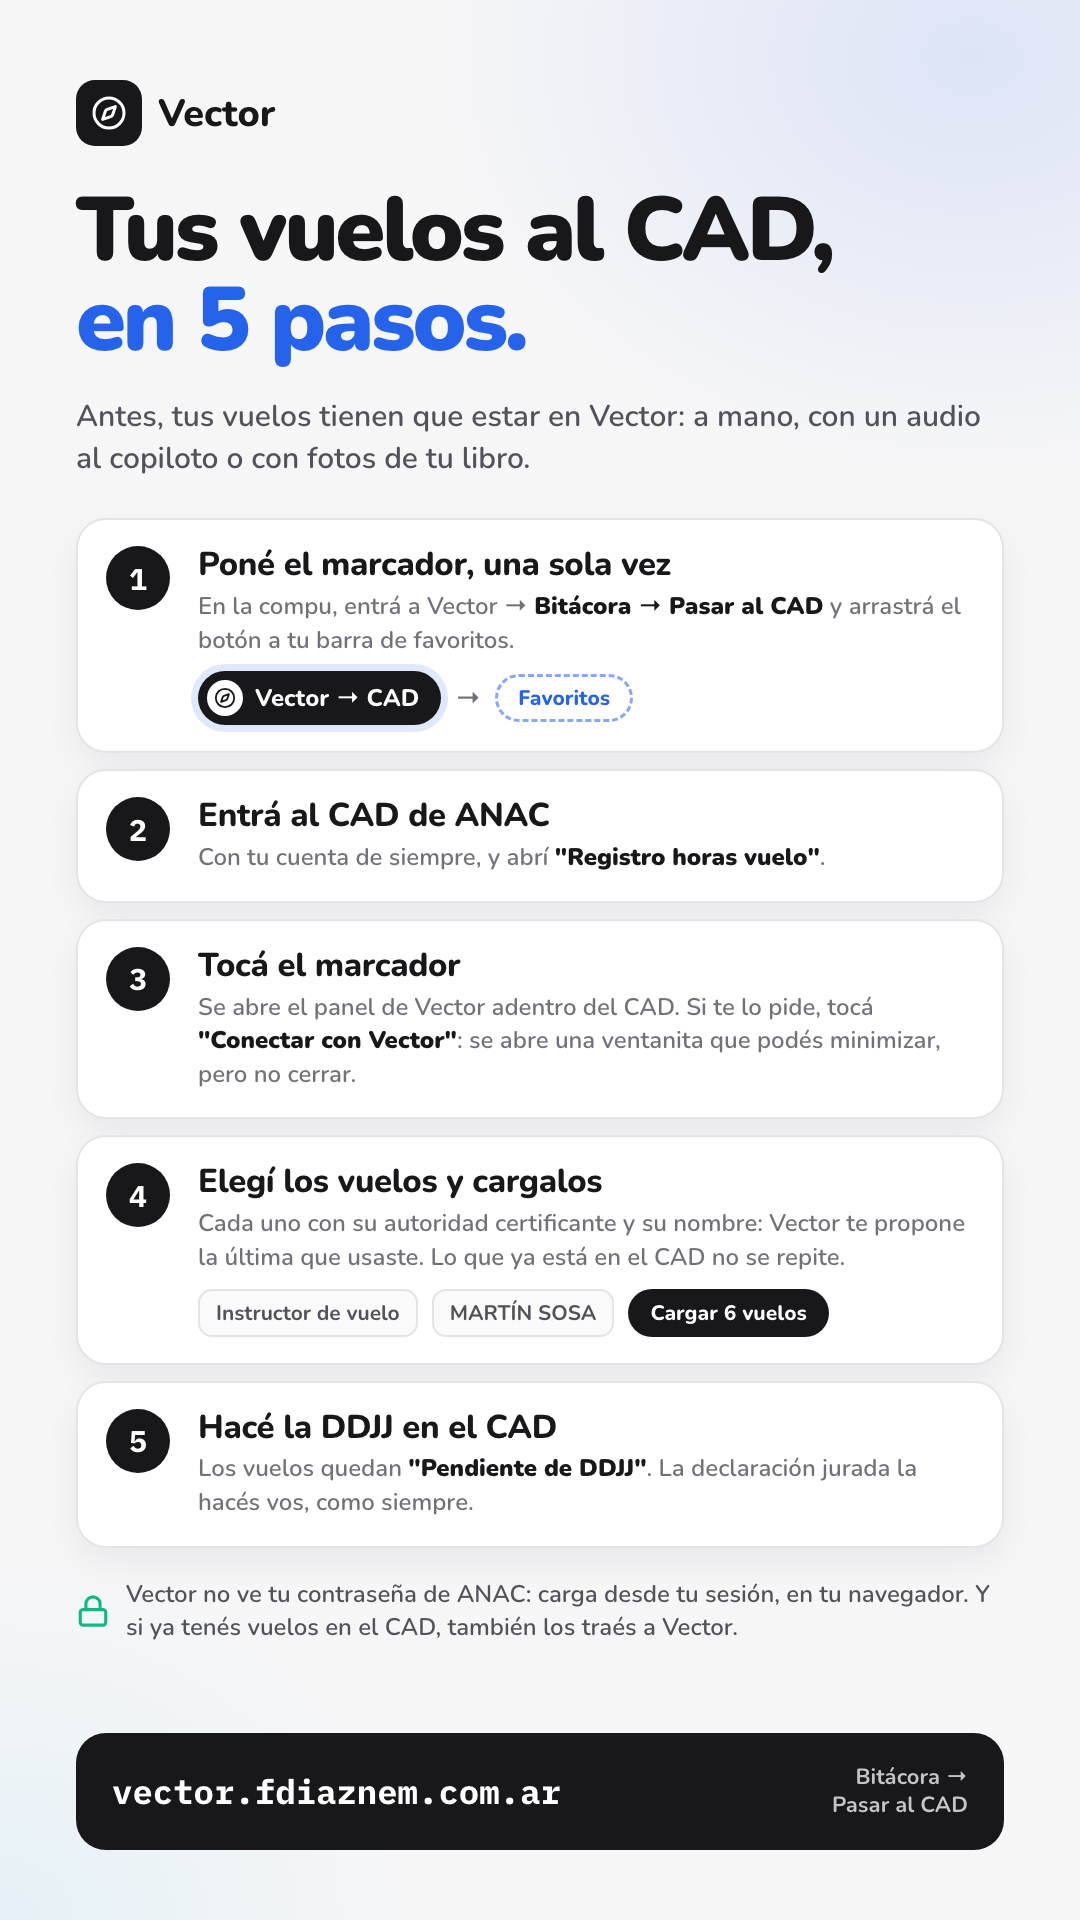
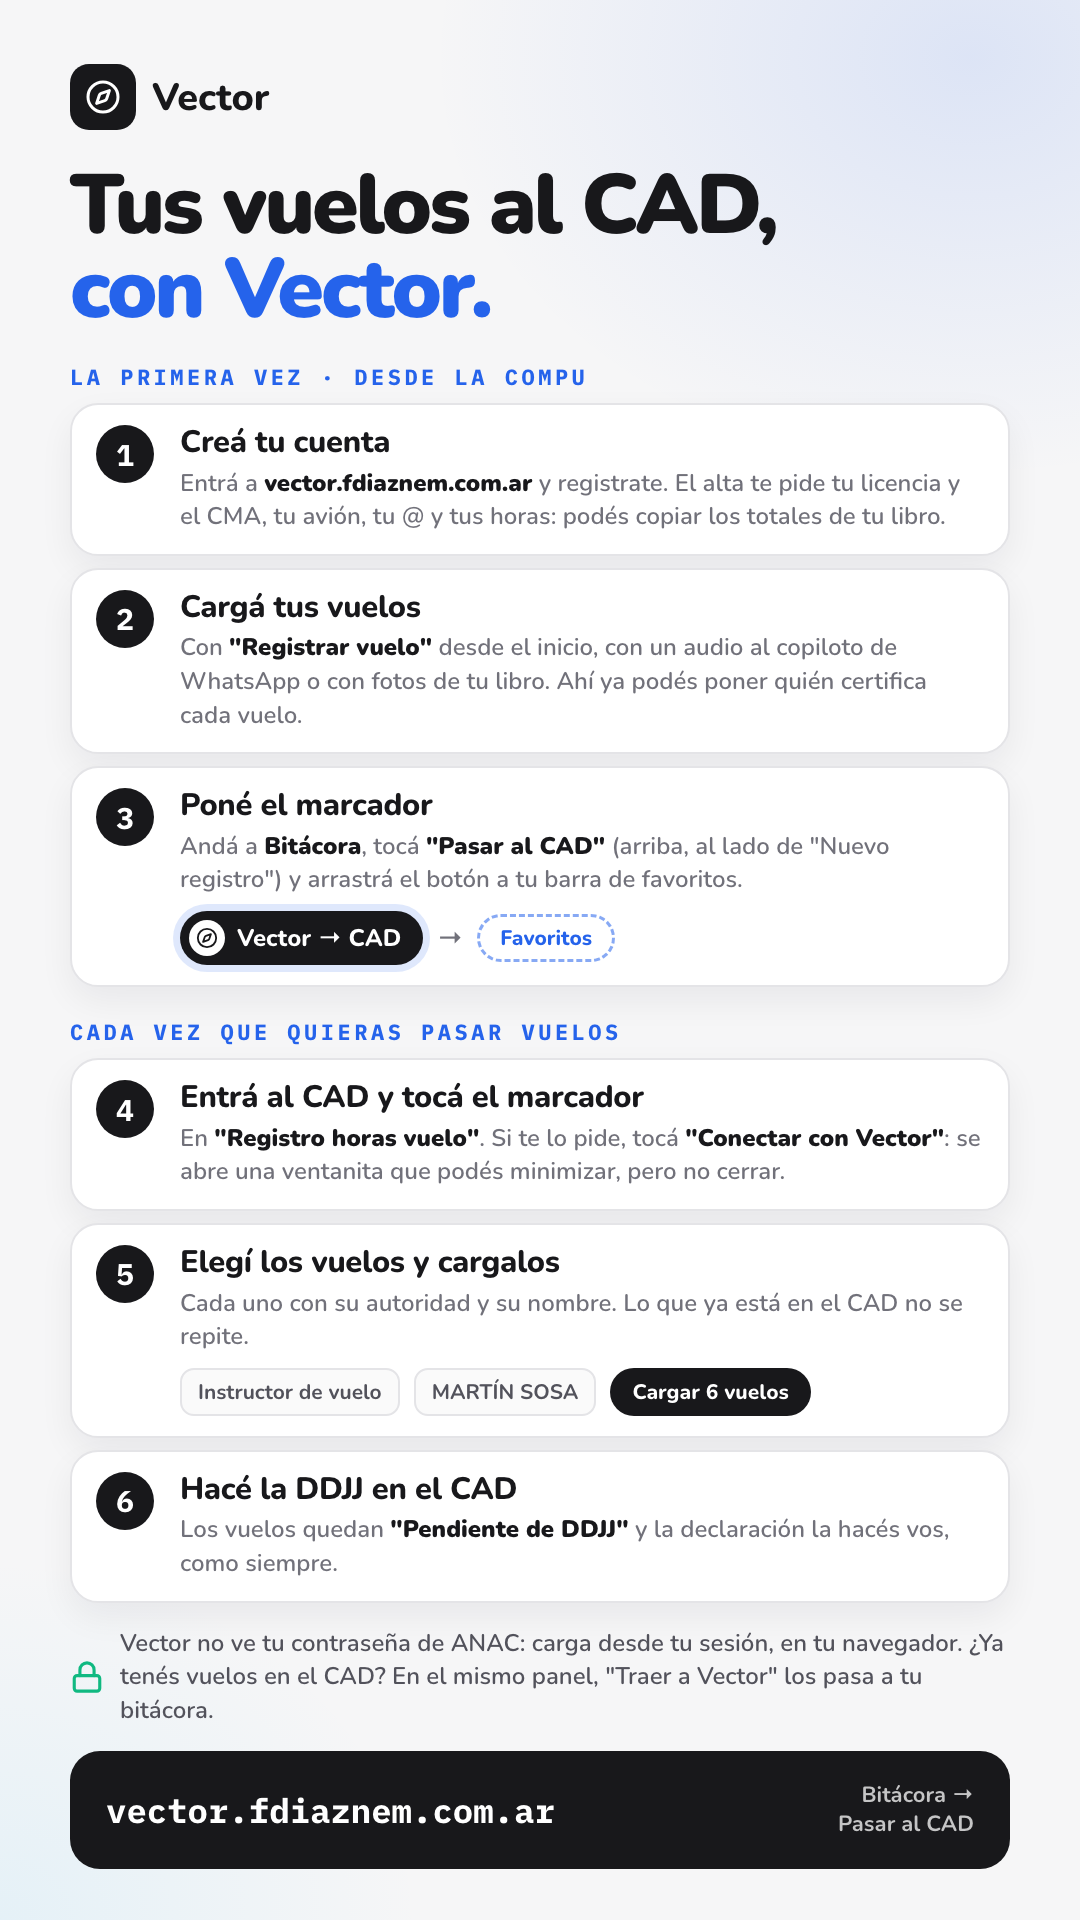
Marketing: Pasar al CAD desde cero, con el alta y la carga de vuelos

Changed region(s): [[0.0611, 0.0312, 0.9472, 1.0]]

diff --git a/marketing/cad-pasos.html b/marketing/cad-pasos.html
@@ -1,6 +1,6 @@
 <!doctype html>
 <!--
-  "Pasar al CAD" paso a paso, en una imagen vertical para mandar por WhatsApp (1080×1920),
+  "Pasar al CAD" paso a paso desde cero (crear la cuenta), en una imagen vertical para mandar por WhatsApp (1080×1920),
   2026-10-21. `marketing/render.mjs cad-pasos` la exporta a `marketing/salida/cad-pasos.png`.
 
   Los pasos son los de la pantalla "Pasar al CAD" (`history/cad/page.tsx`) y del panel
@@ -17,20 +17,21 @@
     --fuente: 'Nunito', -apple-system, 'Segoe UI', Roboto, sans-serif; --mono: 'IBM Plex Mono', ui-monospace, Menlo, monospace; }
   * { box-sizing: border-box; margin: 0; padding: 0; }
   body { font-family: var(--fuente); color: var(--tinta); -webkit-font-smoothing: antialiased; background: var(--fondo); }
-  .pieza { position: relative; overflow: hidden; width: 1080px; height: 1920px; padding: 80px 76px 70px; display: flex; flex-direction: column; gap: 30px; background: var(--fondo); }
+  .pieza { position: relative; overflow: hidden; width: 1080px; height: 1920px; padding: 64px 70px 60px; display: flex; flex-direction: column; gap: 24px; background: var(--fondo); }
   .pieza::before { content: ""; position: absolute; inset: 0; pointer-events: none;
     background: radial-gradient(900px 700px at 90% 3%, rgba(37,99,235,.12), transparent 60%), radial-gradient(700px 600px at 0% 100%, rgba(56,189,248,.09), transparent 60%); }
   .pieza > * { position: relative; }
   .marca { display: flex; align-items: center; gap: 16px; }
   .logo { width: 66px; height: 66px; border-radius: 19px; background: var(--tinta); display: grid; place-items: center; }
   .marca b { font-size: 38px; font-weight: 800; }
-  h1 { font-size: 90px; line-height: 1; font-weight: 900; letter-spacing: -.035em; margin-top: 10px; }
+  h1 { font-size: 84px; line-height: 1; font-weight: 900; letter-spacing: -.035em; margin-top: 10px; }
   h1 em { font-style: normal; color: var(--azul); }
   .bajada { font-size: 30px; line-height: 1.4; color: var(--gris); font-weight: 600; }
-  .pasos { display: flex; flex-direction: column; gap: 16px; margin-top: 8px; }
-  .paso { display: grid; grid-template-columns: 70px 1fr; gap: 22px; background: #fff; border: 2px solid var(--borde); border-radius: 30px; padding: 26px 28px; box-shadow: 0 14px 34px rgba(24,24,27,.06); }
-  .num { width: 64px; height: 64px; border-radius: 50%; background: var(--tinta); color: #fff; display: grid; place-items: center; font-family: var(--mono); font-size: 30px; font-weight: 700; }
-  .paso h3 { font-size: 33px; font-weight: 800; line-height: 1.15; letter-spacing: -.01em; }
+  .pasos { display: flex; flex-direction: column; gap: 12px; }
+  .seccion { font-family: var(--mono); font-size: 22px; font-weight: 700; letter-spacing: .16em; text-transform: uppercase; color: var(--azul); margin: 6px 0 -12px; }
+  .paso { display: grid; grid-template-columns: 64px 1fr; gap: 20px; background: #fff; border: 2px solid var(--borde); border-radius: 28px; padding: 20px 24px; box-shadow: 0 14px 34px rgba(24,24,27,.06); }
+  .num { width: 58px; height: 58px; border-radius: 50%; background: var(--tinta); color: #fff; display: grid; place-items: center; font-family: var(--mono); font-size: 30px; font-weight: 700; }
+  .paso h3 { font-size: 31px; font-weight: 800; line-height: 1.15; letter-spacing: -.01em; }
   .paso p { font-size: 24px; color: var(--gris2); font-weight: 600; line-height: 1.4; margin-top: 6px; }
   .paso p b { color: var(--tinta); }
   .extra { margin-top: 14px; display: flex; align-items: center; gap: 14px; flex-wrap: wrap; }
@@ -50,40 +51,44 @@
 <body>
 <section class="pieza" id="cad-pasos">
   <div class="marca"><span class="logo" data-logo></span><b>Vector</b></div>
-  <h1>Tus vuelos al CAD,<br><em>en 5 pasos.</em></h1>
-  <p class="bajada">Antes, tus vuelos tienen que estar en Vector: a mano, con un audio al copiloto o con fotos de tu libro.</p>
+  <h1>Tus vuelos al CAD,<br><em>con Vector.</em></h1>
 
+  <p class="seccion">La primera vez · desde la compu</p>
   <div class="pasos">
     <div class="paso"><span class="num">1</span><div>
-      <h3>Poné el marcador, una sola vez</h3>
-      <p>En la compu, entrá a Vector → <b>Bitácora → Pasar al CAD</b> y arrastrá el botón a tu barra de favoritos.</p>
+      <h3>Creá tu cuenta</h3>
+      <p>Entrá a <b>vector.fdiaznem.com.ar</b> y registrate. El alta te pide tu licencia y el CMA, tu avión, tu @ y tus horas: podés copiar los totales de tu libro.</p>
+    </div></div>
+    <div class="paso"><span class="num">2</span><div>
+      <h3>Cargá tus vuelos</h3>
+      <p>Con <b>"Registrar vuelo"</b> desde el inicio, con un audio al copiloto de WhatsApp o con fotos de tu libro. Ahí ya podés poner quién certifica cada vuelo.</p>
+    </div></div>
+    <div class="paso"><span class="num">3</span><div>
+      <h3>Poné el marcador</h3>
+      <p>Andá a <b>Bitácora</b>, tocá <b>"Pasar al CAD"</b> (arriba, al lado de "Nuevo registro") y arrastrá el botón a tu barra de favoritos.</p>
       <div class="extra"><span class="marcador"><span class="c" data-brujula></span>Vector → CAD</span><span class="flecha">→</span><span class="soltar">Favoritos</span></div>
     </div></div>
+  </div>
 
-    <div class="paso"><span class="num">2</span><div>
-      <h3>Entrá al CAD de ANAC</h3>
-      <p>Con tu cuenta de siempre, y abrí <b>"Registro horas vuelo"</b>.</p>
-    </div></div>
-
-    <div class="paso"><span class="num">3</span><div>
-      <h3>Tocá el marcador</h3>
-      <p>Se abre el panel de Vector adentro del CAD. Si te lo pide, tocá <b>"Conectar con Vector"</b>: se abre una ventanita que podés minimizar, pero no cerrar.</p>
-    </div></div>
-
+  <p class="seccion">Cada vez que quieras pasar vuelos</p>
+  <div class="pasos">
     <div class="paso"><span class="num">4</span><div>
+      <h3>Entrá al CAD y tocá el marcador</h3>
+      <p>En <b>"Registro horas vuelo"</b>. Si te lo pide, tocá <b>"Conectar con Vector"</b>: se abre una ventanita que podés minimizar, pero no cerrar.</p>
+    </div></div>
+    <div class="paso"><span class="num">5</span><div>
       <h3>Elegí los vuelos y cargalos</h3>
-      <p>Cada uno con su autoridad certificante y su nombre: Vector te propone la última que usaste. Lo que ya está en el CAD no se repite.</p>
+      <p>Cada uno con su autoridad y su nombre. Lo que ya está en el CAD no se repite.</p>
       <div class="extra"><span class="chip">Instructor de vuelo</span><span class="chip">MARTÍN SOSA</span><span class="boton">Cargar 6 vuelos</span></div>
     </div></div>
-
-    <div class="paso"><span class="num">5</span><div>
+    <div class="paso"><span class="num">6</span><div>
       <h3>Hacé la DDJJ en el CAD</h3>
-      <p>Los vuelos quedan <b>"Pendiente de DDJJ"</b>. La declaración jurada la hacés vos, como siempre.</p>
+      <p>Los vuelos quedan <b>"Pendiente de DDJJ"</b> y la declaración la hacés vos, como siempre.</p>
     </div></div>
   </div>
 
   <div class="nota"><svg width="34" height="34" viewBox="0 0 24 24" fill="none" stroke="#10b981" stroke-width="2.2" stroke-linecap="round" stroke-linejoin="round"><rect x="3" y="11" width="18" height="11" rx="2"/><path d="M7 11V7a5 5 0 0 1 10 0v4"/></svg>
-    <span>Vector no ve tu contraseña de ANAC: carga desde tu sesión, en tu navegador. Y si ya tenés vuelos en el CAD, también los traés a Vector.</span></div>
+    <span>Vector no ve tu contraseña de ANAC: carga desde tu sesión, en tu navegador. ¿Ya tenés vuelos en el CAD? En el mismo panel, "Traer a Vector" los pasa a tu bitácora.</span></div>
 
   <div class="pie"><b>vector.fdiaznem.com.ar</b><span>Bitácora →<br>Pasar al CAD</span></div>
 </section>
